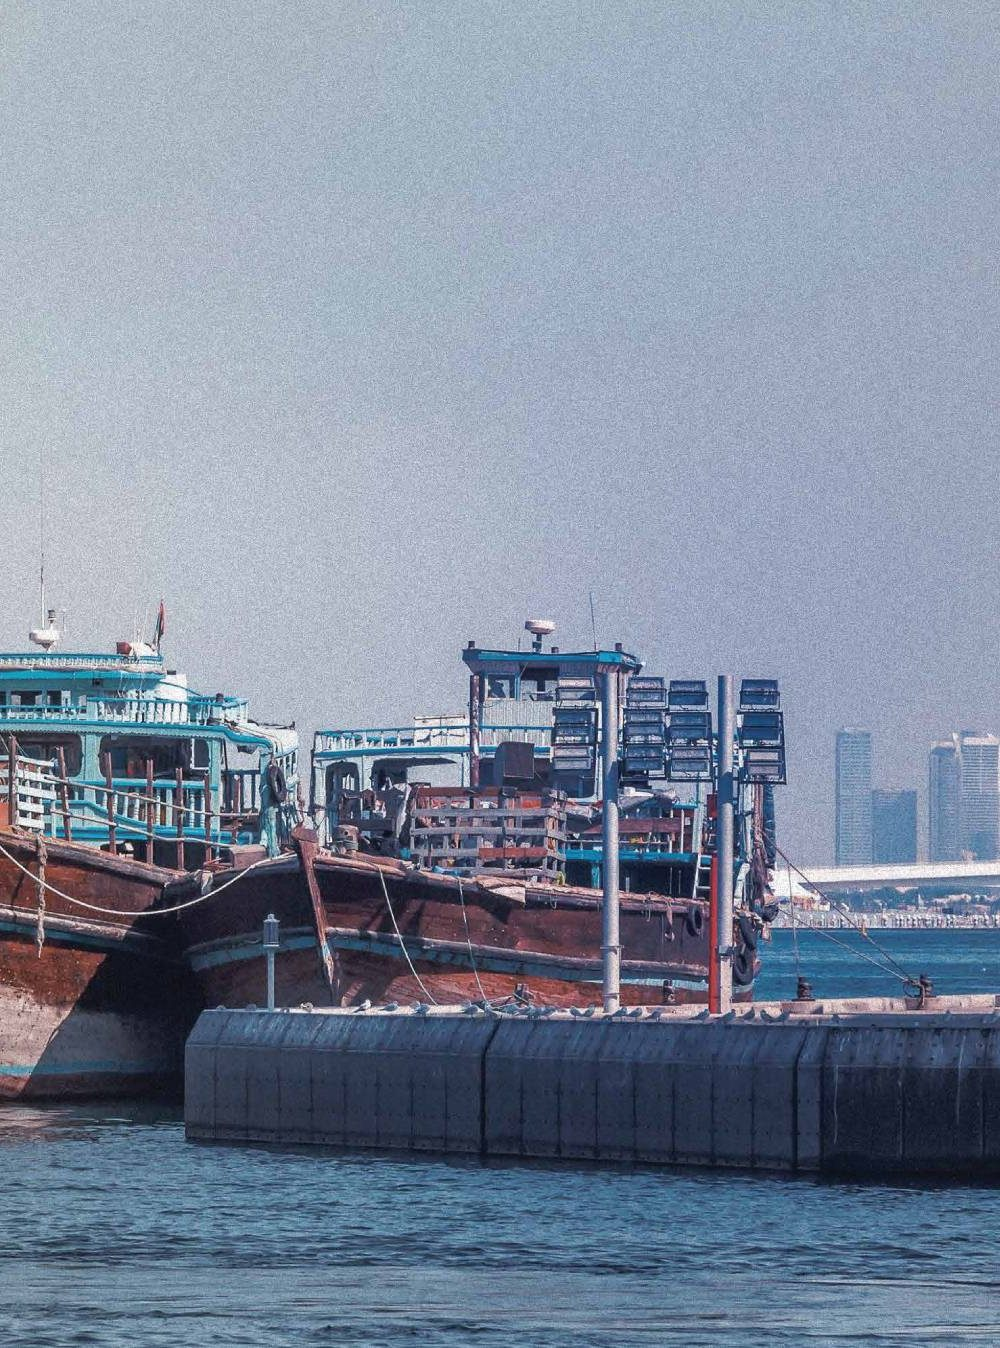
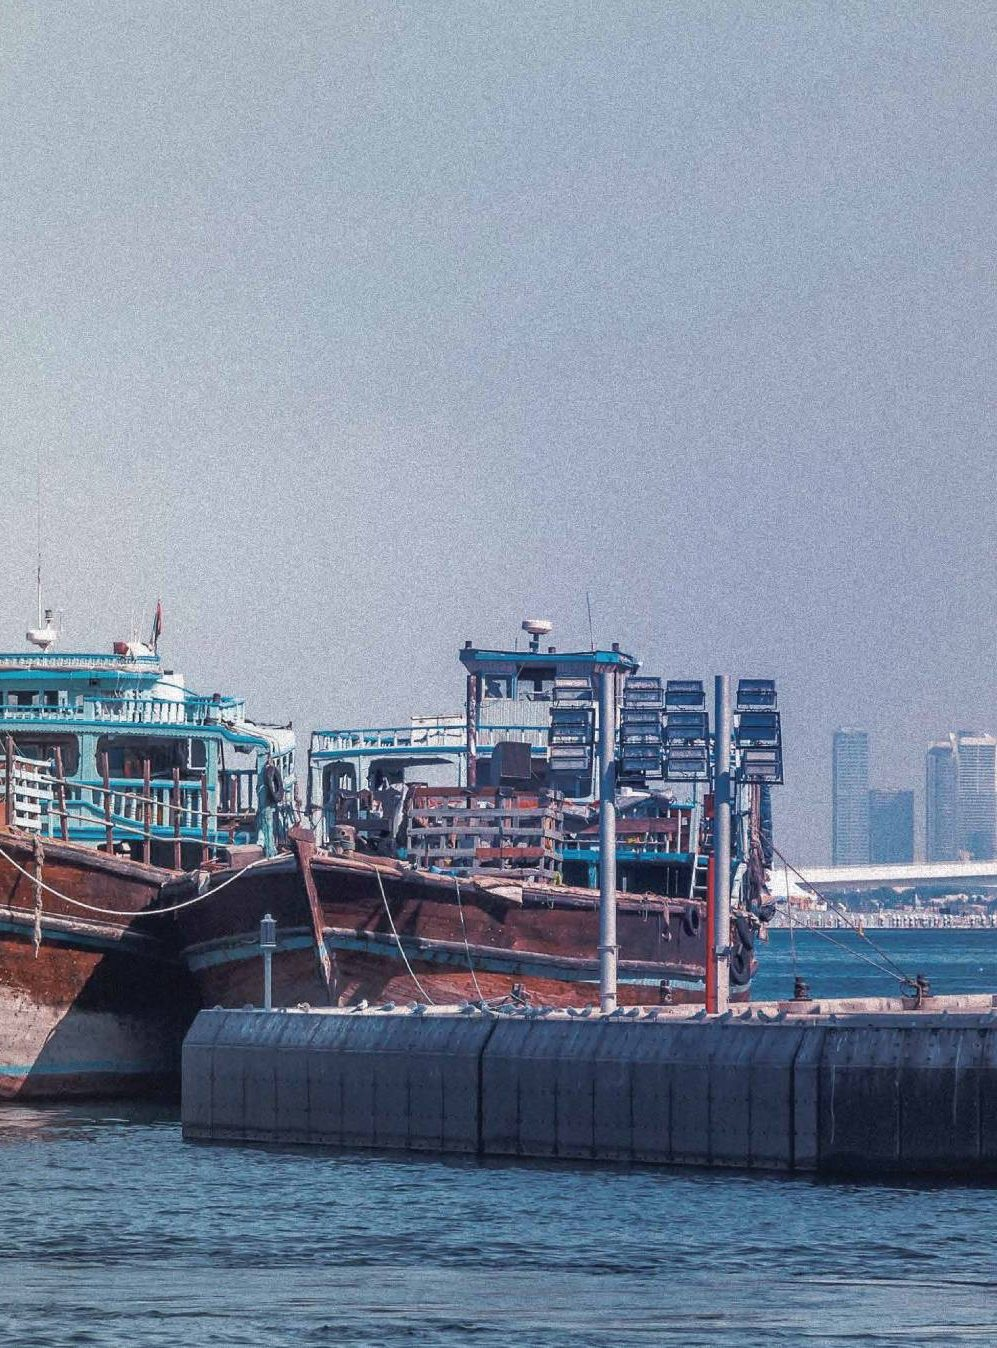
Uniform gutter shadow on all book pages; trim the baked-in spine line

diff --git a/index.html b/index.html
@@ -164,6 +164,10 @@ body.at-intro:not(.ov) .brand{opacity:0}
 .book .bk{transform:rotateY(180deg);border-radius:2px 8px 8px 2px;background:#e6e2d8;align-items:stretch;justify-content:center}
 .book .im{padding:0;overflow:hidden}
 .book .im img{width:100%;height:100%;object-fit:cover;display:block}
+/* one gutter shadow for every page, drawn here instead of baked into the scans */
+.book .im::after{content:'';position:absolute;top:0;bottom:0;right:0;width:9%;background:linear-gradient(to left,rgba(0,0,0,.3),transparent);pointer-events:none}
+.book .bk.im::after{right:auto;left:0;background:linear-gradient(to right,rgba(0,0,0,.3),transparent)}
+.book .cover .f::after{display:none}
 .book .cover svg{width:38%;color:#3c82d8}
 .book .cover b{font-size:13px;line-height:1.7}
 .book .cover .bk{background:#0e2b44}
